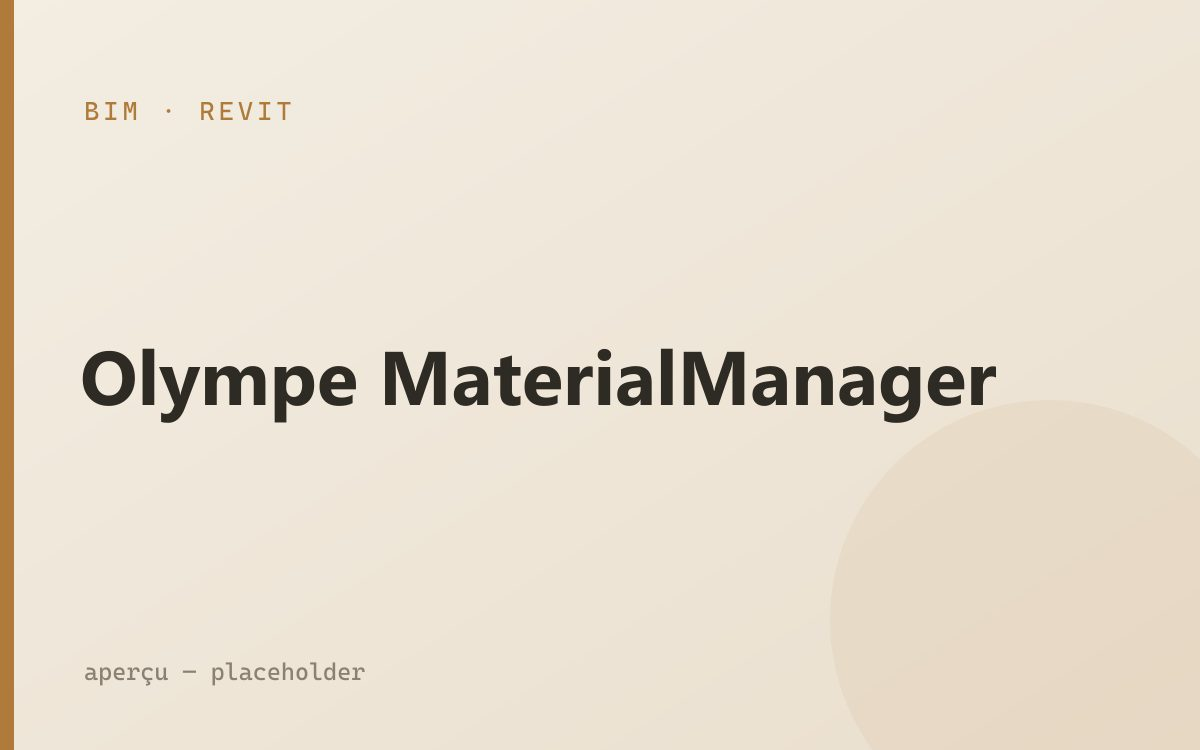
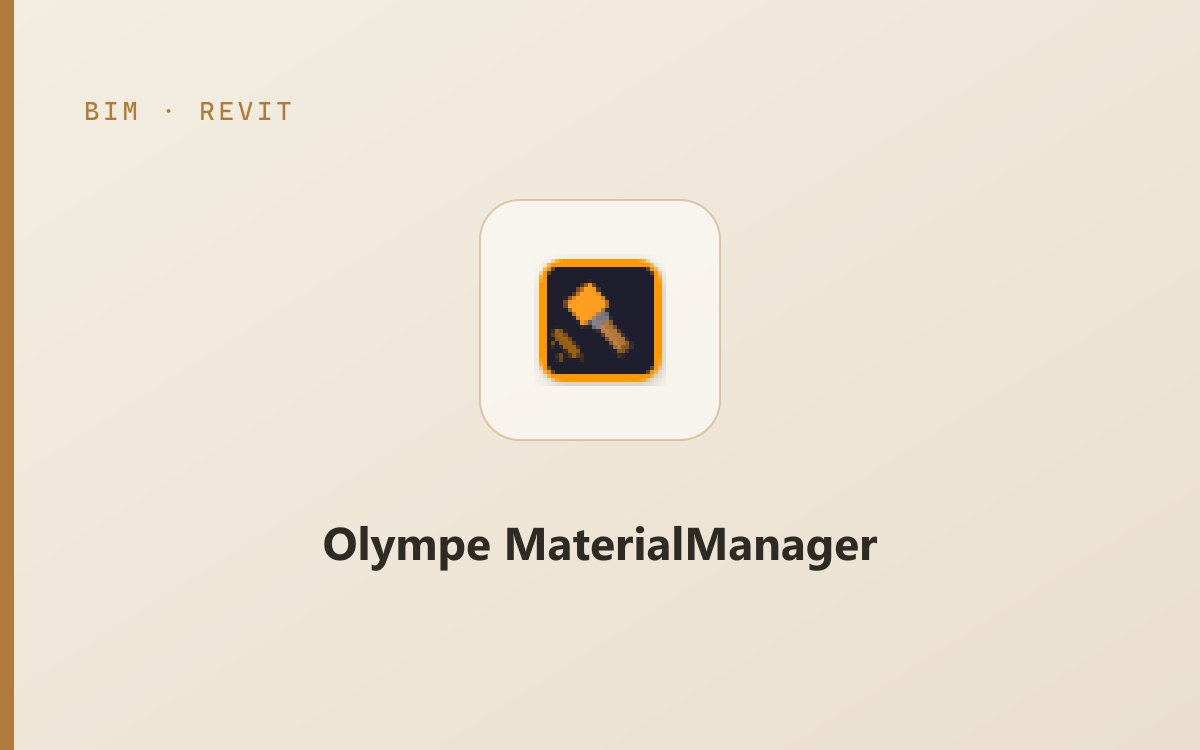
content(projects): real covers for the last 3 + detailed HRS.tab page
Covers (from the projects' own assets):
- diskscout: the app's radar logo (extracted from DiskScout.ico) on Terra bg
- hrs-tab: a 3x3 montage of the 9 pyRevit plugin logos (reads as a suite)
- olympe-materialmanager: its 32px icon kept small inside an app-tile montage
  (no larger logo exists; nearest-neighbor keeps it crisp)

HRS.tab page rewritten (FR+EN) to explain it's a pyRevit plugin suite and
detail each plugin's purpose, sourced from the repos' bundle tooltips:
Param Category Auditor, Shared Parameters Checker, Param Manager, Family
Imbrication, Geometry Analyser, Nomenclature Modifier, Smart Filter, View
Filter Cleaner, and Better Splasher (credited as an integrated community
tool — BIMOne's Color Splasher, ported by Jean-Marc Couffin).

check-mdx-structure max-words 400→700 so tool-suite write-ups can detail
their sub-components (HRS.tab FR 465 / EN 419). 10 files pass, build green.

diff --git a/scripts/check-mdx-structure.ts b/scripts/check-mdx-structure.ts
@@ -21,7 +21,9 @@ const FR_MARKERS = ['## Contexte', '## Défi', '## Processus', '## Résultat'] a
 const EN_MARKERS = ['## Context', '## Challenge', '## Process', '## Outcome'] as const;
 
 const MIN_WORDS = 250;
-const MAX_WORDS = 400;
+// Most case studies sit ~300 words; tool-suite write-ups that detail many
+// sub-components (e.g. HRS.tab's pyRevit plugins) legitimately run longer.
+const MAX_WORDS = 700;
 
 type Locale = 'fr' | 'en';
 